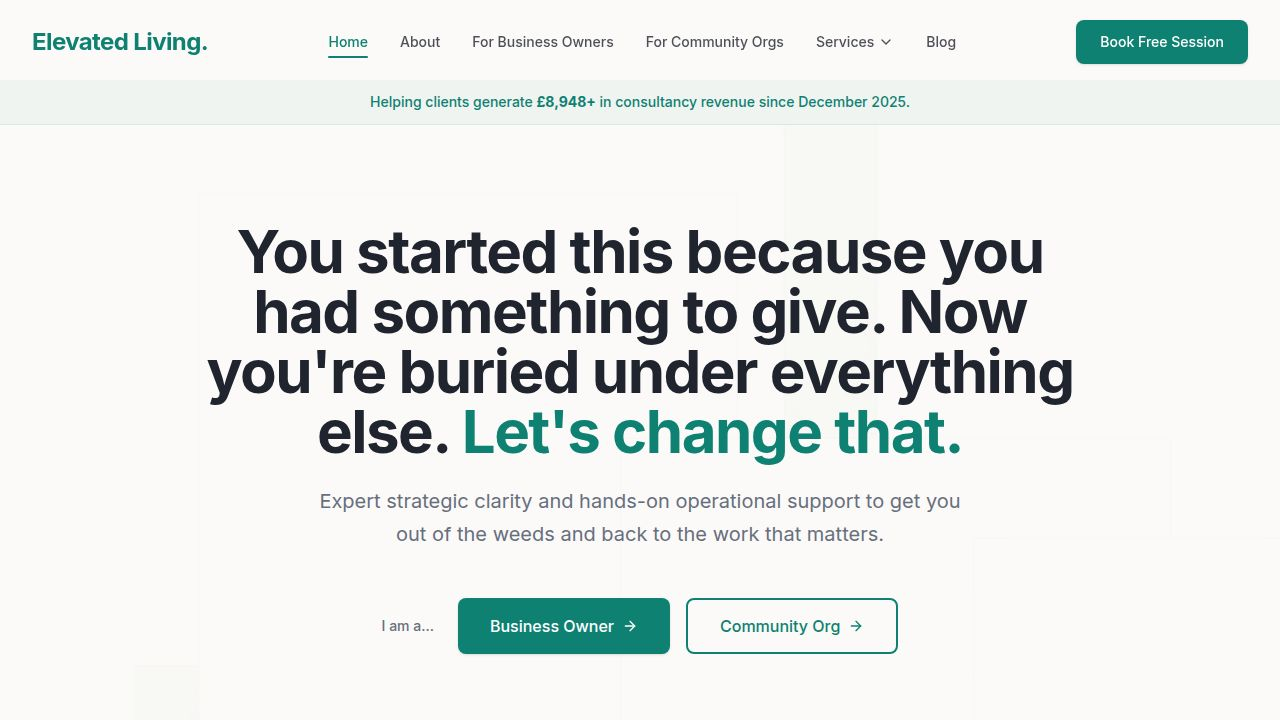
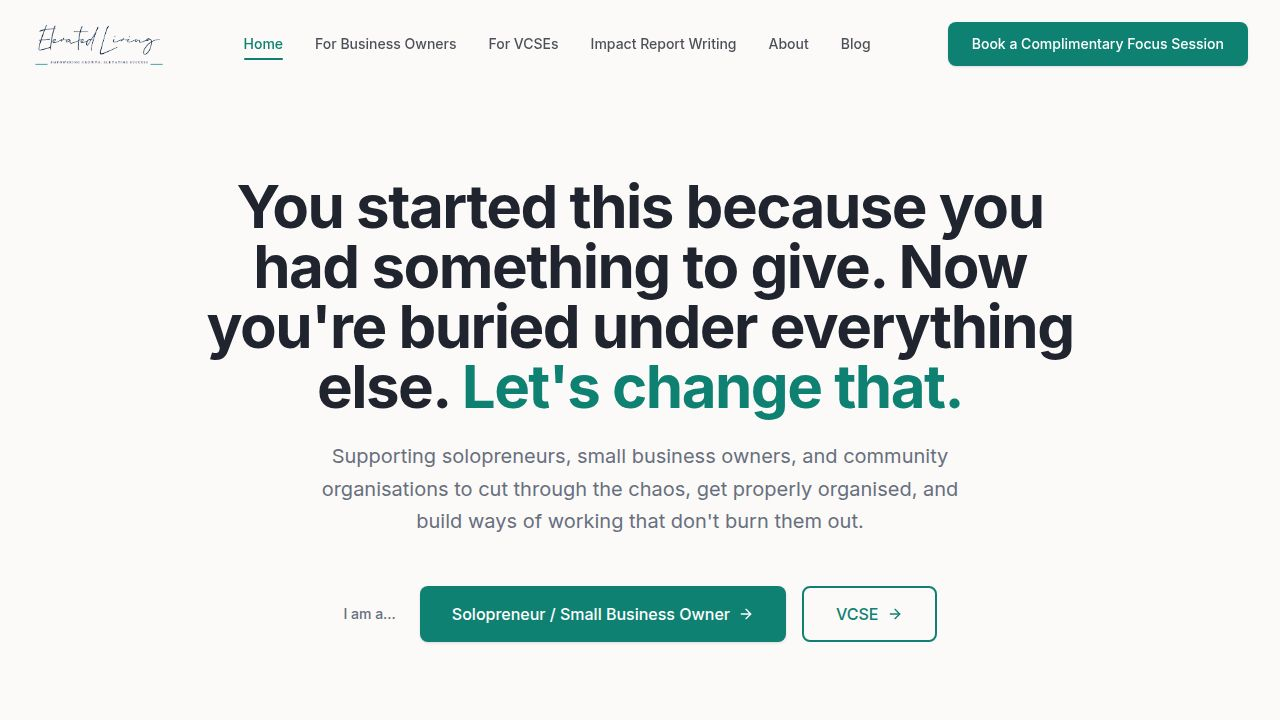
Enhance website SEO and search engine visibility with meta tags and sitemaps
Integrates `react-helmet-async` to add unique meta tags, titles, and Open Graph data to all 14 pages of the website. Generates `robots.txt` and `sitemap.xml` files to improve search engine crawling and indexing. Updates `index.html` with a canonical tag and `lang="en-GB"`. Adds `react-helmet-async` to `package.json` and `App.tsx`.

Replit-Commit-Author: Agent
Replit-Commit-Session-Id: e5b1d3f2-82d5-4838-adce-e9d7cdc0c107
Replit-Commit-Checkpoint-Type: full_checkpoint
Replit-Commit-Event-Id: 07e8f19f-f8de-497d-9853-8ea3f7a465d0
Replit-Commit-Screenshot-Url: https://storage.googleapis.com/screenshot-production-us-central1/2355ebb9-9bb0-46b2-be34-d52110ac009c/e5b1d3f2-82d5-4838-adce-e9d7cdc0c107/FTbQuFz
Replit-Helium-Checkpoint-Created: true

diff --git a/artifacts/elevated-living/src/App.tsx b/artifacts/elevated-living/src/App.tsx
@@ -2,6 +2,7 @@ import { Switch, Route, Router as WouterRouter, useLocation } from "wouter";
 import { QueryClient, QueryClientProvider } from "@tanstack/react-query";
 import { Toaster } from "@/components/ui/toaster";
 import { TooltipProvider } from "@/components/ui/tooltip";
+import { HelmetProvider } from "react-helmet-async";
 import { useEffect } from "react";
 
 // Pages
@@ -58,14 +59,16 @@ function Router() {
 
 function App() {
   return (
-    <QueryClientProvider client={queryClient}>
-      <TooltipProvider>
-        <WouterRouter base={import.meta.env.BASE_URL.replace(/\/$/, "")}>
-          <Router />
-        </WouterRouter>
-        <Toaster />
-      </TooltipProvider>
-    </QueryClientProvider>
+    <HelmetProvider>
+      <QueryClientProvider client={queryClient}>
+        <TooltipProvider>
+          <WouterRouter base={import.meta.env.BASE_URL.replace(/\/$/, "")}>
+            <Router />
+          </WouterRouter>
+          <Toaster />
+        </TooltipProvider>
+      </QueryClientProvider>
+    </HelmetProvider>
   );
 }
 

diff --git a/artifacts/elevated-living/index.html b/artifacts/elevated-living/index.html
@@ -1,9 +1,14 @@
 <!DOCTYPE html>
-<html lang="en">
+<html lang="en-GB">
   <head>
     <meta charset="UTF-8" />
     <meta name="viewport" content="width=device-width, initial-scale=1.0, maximum-scale=1" />
-    <title>Elevated Living</title>
+    <title>Elevated Living | Operational Support for Solopreneurs &amp; VCSEs</title>
+    <meta name="description" content="Elevated Living helps solopreneurs, small business owners, and voluntary sector organisations cut through the operational overwhelm and build structures that actually work." />
+    <meta property="og:site_name" content="Elevated Living" />
+    <meta property="og:type" content="website" />
+    <meta name="twitter:card" content="summary" />
+    <link rel="canonical" href="https://www.elevatedliving.co.uk/" />
     <link rel="icon" type="image/svg+xml" href="/favicon.svg" />
     <link rel="preconnect" href="https://fonts.googleapis.com">
     <link rel="preconnect" href="https://fonts.gstatic.com" crossorigin>

diff --git a/artifacts/elevated-living/src/pages/About.tsx b/artifacts/elevated-living/src/pages/About.tsx
@@ -2,10 +2,19 @@ import { Layout } from "@/components/layout/Layout";
 import { Section } from "@/components/ui/Section";
 import { Link } from "wouter";
 import { Button } from "@/components/ui/Button";
+import { Helmet } from "react-helmet-async";
 
 export function About() {
   return (
     <Layout>
+      <Helmet>
+        <title>About | Elevated Living</title>
+        <meta name="description" content="Meet Kay Oldroyd — Founder and Director of Elevated Living. With 30+ years in community infrastructure, Kay built Elevated Living to help others stop burning out over operations." />
+        <meta property="og:title" content="About | Elevated Living" />
+        <meta property="og:description" content="Meet Kay Oldroyd — Founder and Director of Elevated Living. With 30+ years in community infrastructure, Kay built Elevated Living to help others stop burning out over operations." />
+        <meta property="og:type" content="website" />
+        <meta name="twitter:card" content="summary" />
+      </Helmet>
       <Section className="pt-20">
         <div className="max-w-3xl mx-auto">
           <div>

diff --git a/artifacts/elevated-living/src/pages/Blog.tsx b/artifacts/elevated-living/src/pages/Blog.tsx
@@ -1,6 +1,7 @@
 import { Layout } from "@/components/layout/Layout";
 import { Section } from "@/components/ui/Section";
 import { Link } from "wouter";
+import { Helmet } from "react-helmet-async";
 
 const DUMMY_POSTS = [
   {
@@ -53,6 +54,14 @@ const DUMMY_POSTS = [
 export function Blog() {
   return (
     <Layout>
+      <Helmet>
+        <title>Blog | Elevated Living</title>
+        <meta name="description" content="Practical insights on impact measurement, operational focus, and social value — written for solopreneurs and VCSE leaders by the team at Elevated Living." />
+        <meta property="og:title" content="Blog | Elevated Living" />
+        <meta property="og:description" content="Practical insights on impact measurement, operational focus, and social value — written for solopreneurs and VCSE leaders by the team at Elevated Living." />
+        <meta property="og:type" content="website" />
+        <meta name="twitter:card" content="summary" />
+      </Helmet>
       <Section className="pt-20">
         <div className="max-w-5xl mx-auto">
           <div className="text-center mb-16">

diff --git a/artifacts/elevated-living/src/pages/BlogPostAccessToWork.tsx b/artifacts/elevated-living/src/pages/BlogPostAccessToWork.tsx
@@ -2,10 +2,19 @@ import { Layout } from "@/components/layout/Layout";
 import { Section } from "@/components/ui/Section";
 import { Link } from "wouter";
 import { ArrowLeft } from "lucide-react";
+import { Helmet } from "react-helmet-async";
 
 export function BlogPostAccessToWork() {
   return (
     <Layout>
+      <Helmet>
+        <title>Access to Work: What Self-Employed People Are Missing Out On | Elevated Living</title>
+        <meta name="description" content="Access to Work isn't just for employed people. If you're self-employed with a disability or health condition, you may be entitled to government-funded support — here's what you need to know." />
+        <meta property="og:title" content="Access to Work: What Self-Employed People Are Missing Out On | Elevated Living" />
+        <meta property="og:description" content="Access to Work isn't just for employed people. If you're self-employed with a disability or health condition, you may be entitled to government-funded support — here's what you need to know." />
+        <meta property="og:type" content="article" />
+        <meta name="twitter:card" content="summary" />
+      </Helmet>
       <Section className="pt-20">
         <div className="max-w-2xl mx-auto">
           <Link href="/blog" className="inline-flex items-center gap-2 text-sm text-muted-foreground hover:text-primary transition-colors mb-10 group">

diff --git a/artifacts/elevated-living/src/pages/BlogPostConfidence.tsx b/artifacts/elevated-living/src/pages/BlogPostConfidence.tsx
@@ -2,10 +2,19 @@ import { Layout } from "@/components/layout/Layout";
 import { Section } from "@/components/ui/Section";
 import { Link } from "wouter";
 import { ArrowLeft } from "lucide-react";
+import { Helmet } from "react-helmet-async";
 
 export function BlogPostConfidence() {
   return (
     <Layout>
+      <Helmet>
+        <title>Confidence Doesn't Come First. Action Does. | Elevated Living</title>
+        <meta name="description" content="Waiting to feel ready before you start is the trap. Why action — even small, imperfect action — is the only real route to the confidence you're waiting for." />
+        <meta property="og:title" content="Confidence Doesn't Come First. Action Does. | Elevated Living" />
+        <meta property="og:description" content="Waiting to feel ready before you start is the trap. Why action — even small, imperfect action — is the only real route to the confidence you're waiting for." />
+        <meta property="og:type" content="article" />
+        <meta name="twitter:card" content="summary" />
+      </Helmet>
       <Section className="pt-20">
         <div className="max-w-2xl mx-auto">
           <Link href="/blog" className="inline-flex items-center gap-2 text-sm text-muted-foreground hover:text-primary transition-colors mb-10 group">

diff --git a/artifacts/elevated-living/src/pages/BlogPostCorporateJargon.tsx b/artifacts/elevated-living/src/pages/BlogPostCorporateJargon.tsx
@@ -2,10 +2,19 @@ import { Layout } from "@/components/layout/Layout";
 import { Section } from "@/components/ui/Section";
 import { Link } from "wouter";
 import { ArrowLeft } from "lucide-react";
+import { Helmet } from "react-helmet-async";
 
 export function BlogPostCorporateJargon() {
   return (
     <Layout>
+      <Helmet>
+        <title>Stop Using Corporate Jargon in Your Impact Reports | Elevated Living</title>
+        <meta name="description" content="Funders want human stories backed by solid data — not consultant-speak. Here's why plain English always wins in impact reporting, and how to write one that actually works." />
+        <meta property="og:title" content="Stop Using Corporate Jargon in Your Impact Reports | Elevated Living" />
+        <meta property="og:description" content="Funders want human stories backed by solid data — not consultant-speak. Here's why plain English always wins in impact reporting, and how to write one that actually works." />
+        <meta property="og:type" content="article" />
+        <meta name="twitter:card" content="summary" />
+      </Helmet>
       <Section className="pt-20">
         <div className="max-w-2xl mx-auto">
           <Link href="/blog" className="inline-flex items-center gap-2 text-sm text-muted-foreground hover:text-primary transition-colors mb-10 group">

diff --git a/artifacts/elevated-living/src/pages/BlogPostHoodie.tsx b/artifacts/elevated-living/src/pages/BlogPostHoodie.tsx
@@ -2,10 +2,19 @@ import { Layout } from "@/components/layout/Layout";
 import { Section } from "@/components/ui/Section";
 import { Link } from "wouter";
 import { ArrowLeft } from "lucide-react";
+import { Helmet } from "react-helmet-async";
 
 export function BlogPostHoodie() {
   return (
     <Layout>
+      <Helmet>
+        <title>The Hoodie Hypothesis | Elevated Living</title>
+        <meta name="description" content="Why the outfit you work in tells you more about your business boundaries than any productivity system ever will. A thought on the psychology of solopreneur life." />
+        <meta property="og:title" content="The Hoodie Hypothesis | Elevated Living" />
+        <meta property="og:description" content="Why the outfit you work in tells you more about your business boundaries than any productivity system ever will. A thought on the psychology of solopreneur life." />
+        <meta property="og:type" content="article" />
+        <meta name="twitter:card" content="summary" />
+      </Helmet>
       <Section className="pt-20">
         <div className="max-w-2xl mx-auto">
           <Link href="/blog" className="inline-flex items-center gap-2 text-sm text-muted-foreground hover:text-primary transition-colors mb-10 group">

diff --git a/artifacts/elevated-living/src/pages/BlogPostTOMs.tsx b/artifacts/elevated-living/src/pages/BlogPostTOMs.tsx
@@ -2,10 +2,19 @@ import { Layout } from "@/components/layout/Layout";
 import { Section } from "@/components/ui/Section";
 import { Link } from "wouter";
 import { ArrowLeft } from "lucide-react";
+import { Helmet } from "react-helmet-async";
 
 export function BlogPostTOMs() {
   return (
     <Layout>
+      <Helmet>
+        <title>TOMs vs Social Value: What's the Difference? | Elevated Living</title>
+        <meta name="description" content="The Themes, Outcomes and Measures (TOMs) framework and Social Value are not the same thing. Here's what every VCSE leader needs to understand about the difference." />
+        <meta property="og:title" content="TOMs vs Social Value: What's the Difference? | Elevated Living" />
+        <meta property="og:description" content="The Themes, Outcomes and Measures (TOMs) framework and Social Value are not the same thing. Here's what every VCSE leader needs to understand about the difference." />
+        <meta property="og:type" content="article" />
+        <meta name="twitter:card" content="summary" />
+      </Helmet>
       <Section className="pt-20">
         <div className="max-w-2xl mx-auto">
           <Link href="/blog" className="inline-flex items-center gap-2 text-sm text-muted-foreground hover:text-primary transition-colors mb-10 group">

diff --git a/artifacts/elevated-living/src/pages/BusinessOwners.tsx b/artifacts/elevated-living/src/pages/BusinessOwners.tsx
@@ -3,10 +3,19 @@ import { Section } from "@/components/ui/Section";
 import { Button } from "@/components/ui/Button";
 import { Link } from "wouter";
 import { CheckCircle2, BrainCircuit } from "lucide-react";
+import { Helmet } from "react-helmet-async";
 
 export function BusinessOwners() {
   return (
     <Layout>
+      <Helmet>
+        <title>For Business Owners | Elevated Living</title>
+        <meta name="description" content="Operational support for solopreneurs and small business owners — from focus sessions and VA support to Access to Work guidance. Stop drowning in admin and start moving forward." />
+        <meta property="og:title" content="For Business Owners | Elevated Living" />
+        <meta property="og:description" content="Operational support for solopreneurs and small business owners — from focus sessions and VA support to Access to Work guidance. Stop drowning in admin and start moving forward." />
+        <meta property="og:type" content="website" />
+        <meta name="twitter:card" content="summary" />
+      </Helmet>
       <Section className="pt-20 pb-12">
         <div className="max-w-4xl mx-auto text-center">
           <h1 className="mb-6">For Solopreneurs & Business Owners</h1>

diff --git a/artifacts/elevated-living/src/pages/CommunityOrgs.tsx b/artifacts/elevated-living/src/pages/CommunityOrgs.tsx
@@ -3,10 +3,19 @@ import { Section } from "@/components/ui/Section";
 import { Button } from "@/components/ui/Button";
 import { Link } from "wouter";
 import { CheckCircle2, Building2 } from "lucide-react";
+import { Helmet } from "react-helmet-async";
 
 export function CommunityOrgs() {
   return (
     <Layout>
+      <Helmet>
+        <title>For VCSEs | Elevated Living</title>
+        <meta name="description" content="Specialist operational and impact support for voluntary, community and social enterprises. Elevated Living helps VCSEs evidence their work, build capacity, and sustain what matters." />
+        <meta property="og:title" content="For VCSEs | Elevated Living" />
+        <meta property="og:description" content="Specialist operational and impact support for voluntary, community and social enterprises. Elevated Living helps VCSEs evidence their work, build capacity, and sustain what matters." />
+        <meta property="og:type" content="website" />
+        <meta name="twitter:card" content="summary" />
+      </Helmet>
       <Section className="pt-20 pb-12">
         <div className="max-w-4xl mx-auto text-center">
           <div className="inline-flex items-center justify-center p-3 bg-primary/10 rounded-full mb-6">

diff --git a/artifacts/elevated-living/src/pages/Contact.tsx b/artifacts/elevated-living/src/pages/Contact.tsx
@@ -5,6 +5,7 @@ import { Calendar, Mail } from "lucide-react";
 import { useForm } from "react-hook-form";
 import { useState, useEffect } from "react";
 import { useToast } from "@/hooks/use-toast";
+import { Helmet } from "react-helmet-async";
 
 type ContactFormData = {
   name: string;
@@ -43,6 +44,14 @@ export function Contact() {
 
   return (
     <Layout>
+      <Helmet>
+        <title>Contact | Elevated Living</title>
+        <meta name="description" content="Get in touch with Elevated Living. Book a complimentary focus session, ask about impact report writing, or find out how we can support your organisation or business." />
+        <meta property="og:title" content="Contact | Elevated Living" />
+        <meta property="og:description" content="Get in touch with Elevated Living. Book a complimentary focus session, ask about impact report writing, or find out how we can support your organisation or business." />
+        <meta property="og:type" content="website" />
+        <meta name="twitter:card" content="summary" />
+      </Helmet>
       <Section className="pt-20">
         <div className="max-w-6xl mx-auto">
           <div className="text-center mb-16">